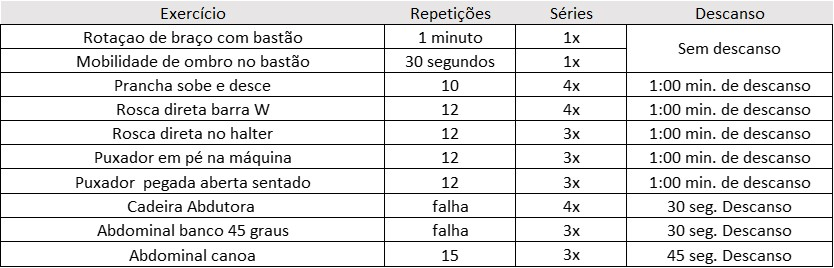
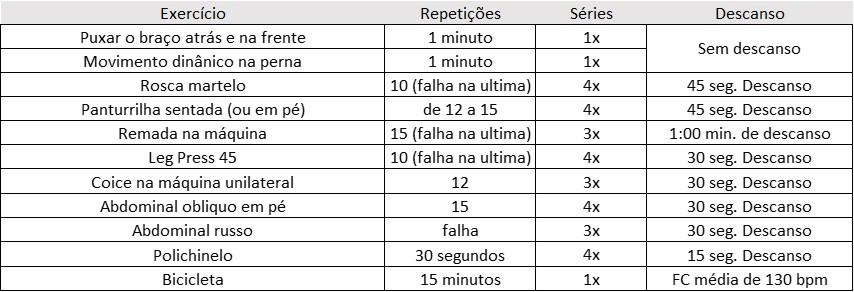
dani

Changed region(s): [[0.0, 0.0299, 1.0, 1.0], [0.8106, 0.1493, 0.9353, 0.209]]

diff --git a/docs/atletas/4240.html b/docs/atletas/4240.html
@@ -38,12 +38,12 @@
                 <img class="cara" src="../galeria/kaio_perfil.jpeg">
                 <p>Treino: academia
             </br>
-           Frequência: No mínimo 5x por semana.
+           Frequência: No mínimo 4x por semana na academia e 2x em casa.
         </br>
         Objetivo: Melhoria do tônus muscular, ênfase em condicionamento físico e perca de gordura.
         </br>
         Característica: Os treinos terão características diversas, focados ao objetivo já mencionado e à rotina. Na semana é obrigatório
-        realizar pelo menos 2x cada treino. Sendo treino A: braço, treino B: braço e treino C: perna.
+        realizar pelo menos 2x cada treino. Sendo treino A e B na academia e o C em casa.
             </p>
             </div>
         </section>
@@ -52,7 +52,7 @@
             <header class="depoimento_conteudo bloco_cabecalho_degrade">Informações gerais </a></header>
             <div class="segundapagina espaco">   
             <div class="galeria">
-                <iframe width="314" height="225" src="https://www.youtube.com/embed/xHp2VvI0sME"frameborder="0"
+                <iframe width="314" height="225" src="https://www.youtube.com/embed/WRXwzd8QHO8"frameborder="0"
                     allow="accelerometer; autoplay; encrypted-media; gyroscope; picture-in-picture"
                     allowfullscreen></iframe>
             </div>
@@ -63,9 +63,10 @@
             <header class="depoimento_conteudo bloco_cabecalho_degrade">Treino A </a></header>
             <div class="segundapagina espaco">   
                 <img class="shoot" src="../galeria/dania.jpg">
-                <p>O treino A é o primeiro treino de braço e abdômen. Prestar bastance atenção na contração do abdomem
-                    e da coluna na hora de eexcução dos movimentos. Estar bem atenta na hora da realização dos exercícios
-                    em relação à respiração.      
+                <p>O treino A é feito com exercícios de membros superiores e inferiores. Com atenção nos exercícios que a ultima 
+                    sério é para ser feita até a falha e de forma mais rápida. Vale ressaltar que as repetições até a falha caso seja
+                    50% a mais do que o normal, aumentar a carga. Exemplo: 4x10 na ultima série a falha foi em 17, da para aumentar o peso.
+                    Note que há bicicleta no final.      
             </p>
             <div class="galeria">
                 <iframe width="314" height="225" src="https://www.youtube.com/embed/gAtWWxTfJSA"frameborder="0"
@@ -79,9 +80,10 @@
             <header class="depoimento_conteudo bloco_cabecalho_degrade">Treino B </a></header>
             <div class="segundapagina espaco">   
                 <img class="shoot" src="../galeria/danib.jpg">
-                <p>O treino B é o segundo treino de braço e abdômen. Prestar bastance atenção na contração do abdomem
-                    e da coluna na hora de eexcução dos movimentos. Estar bem atenta na hora da realização dos exercícios
-                    em relação à respiração. 
+                <p>O treino B é feito com exercícios de membros superiores e inferiores. Com atenção nos exercícios que a ultima 
+                    sério é para ser feita até a falha e de forma mais rápida. Vale ressaltar que as repetições até a falha caso seja
+                    50% a mais do que o normal, aumentar a carga. Exemplo: 4x10 na ultima série a falha foi em 17, da para aumentar o peso.
+                    Note que há esteira no final, fazendo 3x de velocidade 5 km/h, 6 km/h, 7 km/h, 8 km/h e 9 km/h, na ordem de sua escolha.    
                 </p>
             <div class="galeria">
                 <iframe width="314" height="225" src="https://www.youtube.com/embed/HQAX6vFND3Y"frameborder="0"
@@ -95,9 +97,8 @@
             <header class="depoimento_conteudo bloco_cabecalho_degrade">Treino C </a></header>
             <div class="segundapagina espaco">   
                 <img class="shoot" src="../galeria/danic.jpg">
-                <p>O treino C é o treino de perna. Totalmente focado em membros inferiores.
-                    Controlar a carga para que o treino seja pesado. Neste treino prestar atenção ao
-                    abdômen e o posicionamento do corpo na execução dos exercícios.
+                <p>O treino C é o treino rápido e intenso para ser realizado em casa. Com movimentos dinâmicos e execução acelerada.
+                    Atenção para exercícios que possuem um conjunto de 2 exercícios para só depois descansar.
                   
                      
             </p>
